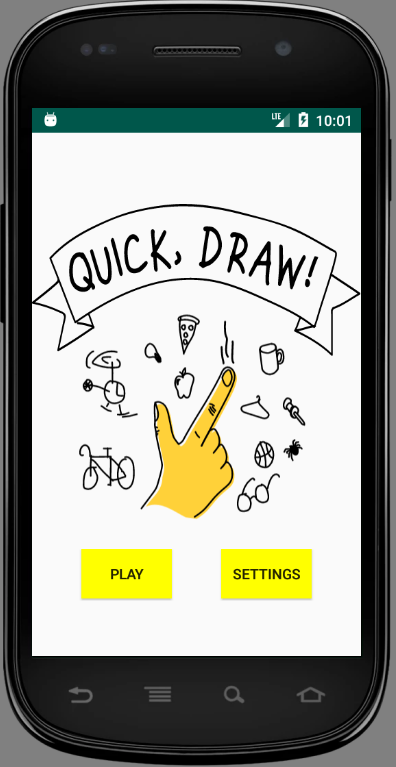
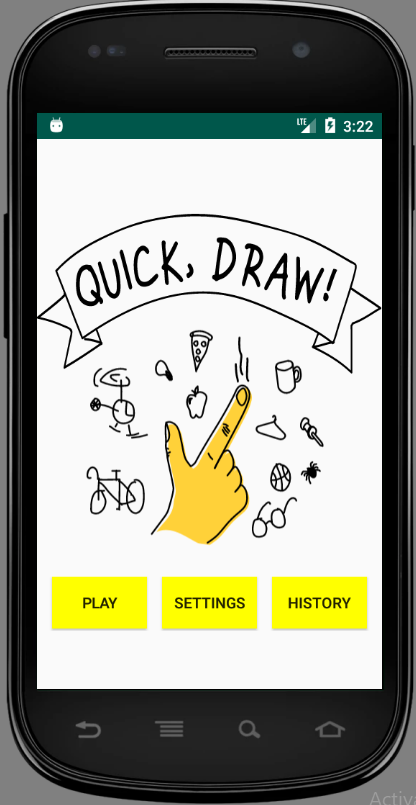
upload images

diff --git a/README.md b/README.md
@@ -8,3 +8,5 @@
 ![](/images/mailbox.png)
 
 ![](/images/color_chooser.png)
+
+![](/images/history.png)
